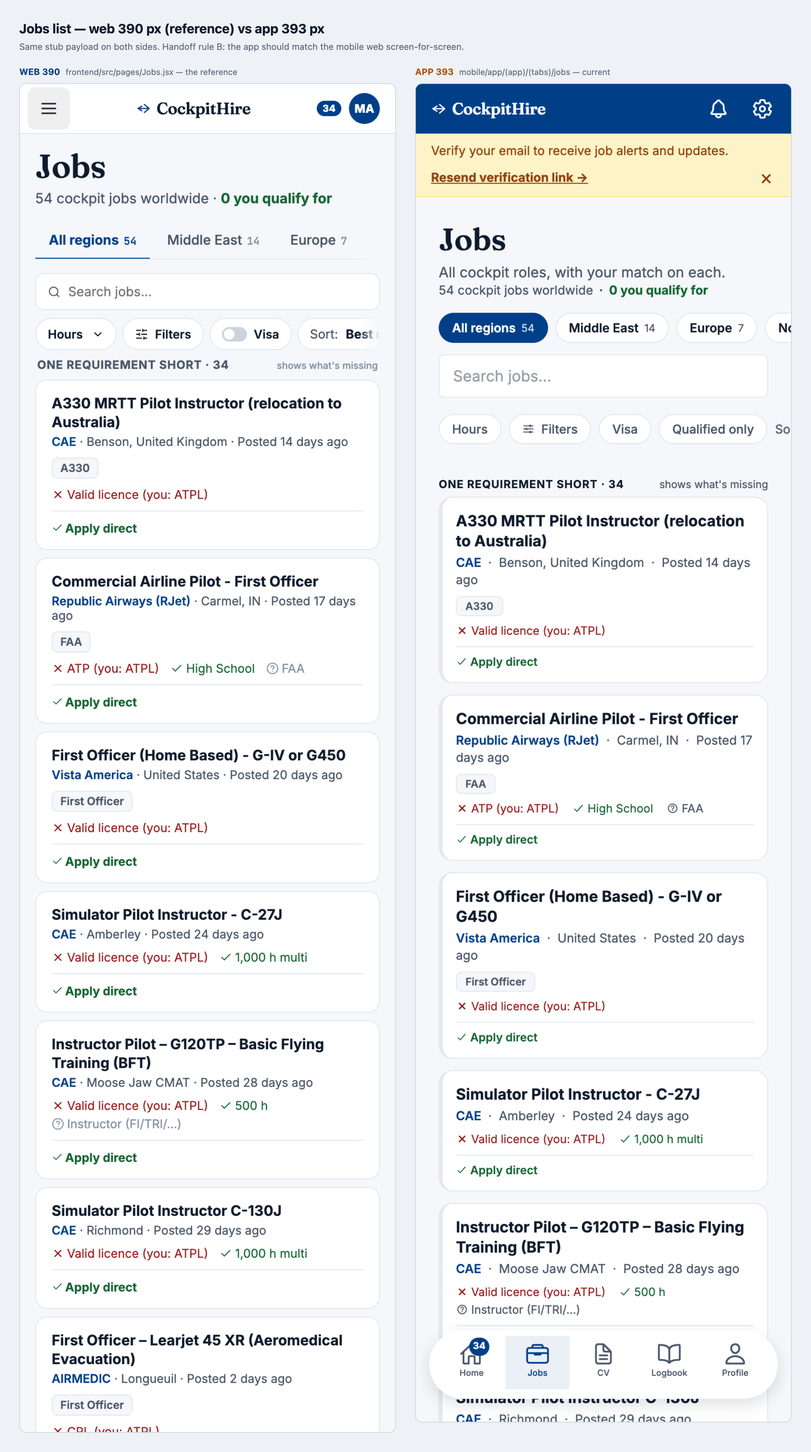
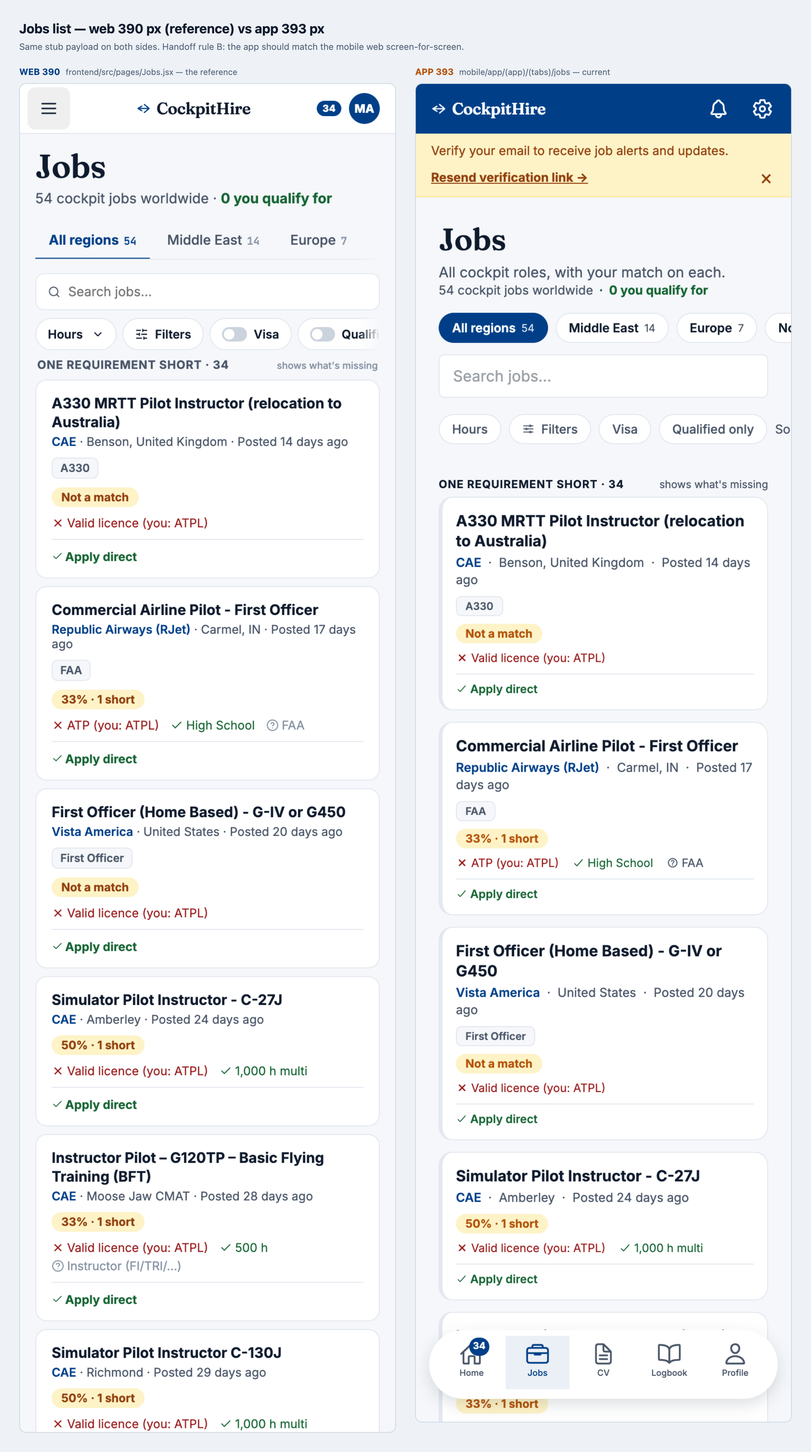
feat(jobs): match % on cards (both platforms) + web gains the app's three wins
**Match pill, one format everywhere.** The original requirement was a
percentage on the Jobs listings AND the Dashboard; the B port had
dropped it from the app card to match web, which showed none at all.
Both now render the same pill from one shared `matchPill()` (twins in
frontend/src/lib/jobMatch.js and mobile/src/lib/jobMatch.ts):
  "75% · 1 short" · "100% · You qualify" · "Not a match" at 0% (a bare
  "0%" reads as broken, not as an answer) · "Event" for a recruitment
  event · nothing for NO_REQUIREMENTS / WRONG_CATEGORY.
Tone drives colour — green qualify, amber short/check, grey otherwise —
and the pill sits between the chips and the checklist on both. The
Dashboard already showed percentages on both platforms; its richer
"75% match / 3 of 4 met" block is left alone.

**Ported to web from the app:**
- the "Never share bank or credit card details when applying" note, on
  both apply surfaces (the sticky phone bar now wraps so the button
  keeps its full label instead of collapsing to an icon);
- the Qualified-only chip, on the phone rail, the desktop rail and the
  applied-filter row — it was buried in the Filters sheet;
- the detail header's logo tile now falls back to initials instead of
  `hideIfMissing`, which left an empty slot for every unresolved
  airline. (Correction to the inventory: web always had the tile; the
  difference was the fallback.)

**CTA is brand navy on both**, labelled "Apply on the source ↗". Green
[…]

diff --git a/frontend/src/components/jobs/jobsRedesign.css b/frontend/src/components/jobs/jobsRedesign.css
@@ -74,6 +74,15 @@
 .jobs-rd .chips { display: flex; flex-wrap: wrap; gap: 5px; }
 .jobs-rd .chip { display: inline-flex; align-items: center; gap: 4px; font-size: 11.5px; font-weight: 600; color: var(--text-secondary); background: var(--bg); border: 1px solid var(--border); border-radius: 6px; padding: 3px 8px; white-space: nowrap; }
 .jobs-rd .chip.visa { color: var(--green); background: var(--green-bg); border-color: var(--green-bd); }
+/* match pill on a card — same format and tones as the app (owner spec):
+   "75% · 1 short" / "100% · You qualify" / "Not a match" at 0% / "Event" */
+.jobs-rd .mpill { align-self: flex-start; font-size: 12px; font-weight: 700; border-radius: 999px; padding: 3px 10px; }
+.jobs-rd .mpill.green { color: #166534; background: #DCFCE7; }
+.jobs-rd .mpill.amber { color: #92400E; background: #FEF3C7; }
+.jobs-rd .mpill.grey  { color: #4A5668; background: var(--surface-2, #F1F4F8); }
+/* fraud-safety line under the apply CTA — ported from the app */
+.jobs-rd .safety { font-size: 11.5px; font-style: italic; color: var(--text-secondary); margin-top: 8px; text-align: center; }
+.jobs-rd .abar .safety { flex: 1 0 100%; margin-top: 0; order: 2; }
 .jobs-rd .check { display: flex; flex-wrap: wrap; gap: 4px 12px; font-size: 12.5px; }
 .jobs-rd .check .ok { color: var(--green); }
 .jobs-rd .check .no { color: var(--red); }
@@ -149,7 +158,7 @@
 .jobs-rd .apply { position: sticky; top: 12px; border: 1px solid var(--border); border-radius: 12px; padding: 16px; background: var(--surface); box-shadow: 0 4px 14px rgba(15,20,25,.05); }
 .jobs-rd .apply .sal { font-family: var(--font-mono); font-size: 18px; font-weight: 700; }
 .jobs-rd .apply .per { font-size: 12px; color: var(--text-secondary); }
-.jobs-rd .apply .abtn { display: block; width: 100%; text-align: center; background: var(--green); color: #fff; font-weight: 700; font-size: 14.5px; border: 0; border-radius: 9px; padding: 12px; margin: 14px 0 8px; cursor: pointer; }
+.jobs-rd .apply .abtn { display: block; width: 100%; text-align: center; background: var(--accent); color: #fff; font-weight: 700; font-size: 14.5px; border: 0; border-radius: 9px; padding: 12px; margin: 14px 0 8px; cursor: pointer; }
 .jobs-rd .apply .how { font-size: 12px; color: var(--text-secondary); line-height: 1.45; } .jobs-rd .apply .how b { color: var(--green); }
 .jobs-rd .apply .arow { display: flex; gap: 8px; margin-top: 12px; }
 .jobs-rd .apply .arow button { flex: 1; text-align: center; border: 1px solid var(--border); border-radius: 8px; padding: 8px; font-size: 13px; font-weight: 600; background: var(--surface); cursor: pointer; }
@@ -159,10 +168,10 @@
 /* phone fixed bottom apply bar — roomy: 14px all sides + safe-area inset so it
    clears the iPhone home bar / Safari toolbar; salary+source centred against a
    48px-tall Apply button. */
-.jobs-rd .abar { position: fixed; left: 0; right: 0; bottom: 0; background: var(--surface); border-top: 1px solid var(--border); padding: 14px 16px calc(14px + env(safe-area-inset-bottom)); display: flex; align-items: center; gap: 14px; z-index: 60; box-shadow: 0 -2px 12px rgba(15,20,25,.06); }
-.jobs-rd .abar .l { flex: 0 0 auto; min-width: 0; font-size: 12px; color: var(--text-secondary); line-height: 1.4; } .jobs-rd .abar .l b { display: block; font-family: var(--font-body); font-variant-numeric: tabular-nums; font-weight: 700; font-size: 15px; color: var(--text-primary); white-space: nowrap; }
-.jobs-rd .abar .abtn { flex: 1 1 auto; }
-.jobs-rd .abar .abtn { min-height: 48px; display: inline-flex; align-items: center; justify-content: center; gap: 6px; background: var(--green); color: #fff; font-weight: 700; font-size: 15px; border: 0; border-radius: 10px; padding: 0 20px; cursor: pointer; min-width: 0; flex-shrink: 1; }
+.jobs-rd .abar { position: fixed; left: 0; right: 0; bottom: 0; background: var(--surface); border-top: 1px solid var(--border); padding: 14px 16px calc(14px + env(safe-area-inset-bottom)); display: flex; flex-wrap: wrap; align-items: center; row-gap: 6px; column-gap: 14px; z-index: 60; box-shadow: 0 -2px 12px rgba(15,20,25,.06); }
+.jobs-rd .abar .l { flex: 0 0 auto; min-width: 0; order: 0; font-size: 12px; color: var(--text-secondary); line-height: 1.4; } .jobs-rd .abar .l b { display: block; font-family: var(--font-body); font-variant-numeric: tabular-nums; font-weight: 700; font-size: 15px; color: var(--text-primary); white-space: nowrap; }
+.jobs-rd .abar .abtn { flex: 1 1 auto; min-width: 180px; order: 1; }
+.jobs-rd .abar .abtn { min-height: 48px; display: inline-flex; align-items: center; justify-content: center; gap: 6px; background: var(--accent); color: #fff; font-weight: 700; font-size: 15px; border: 0; border-radius: 10px; padding: 0 20px; cursor: pointer; min-width: 0; flex-shrink: 1; }
 .jobs-rd .abar .abtn .lbl { overflow: hidden; text-overflow: ellipsis; white-space: nowrap; }
 /* No salary → the button fills the bar and centres its label. */
 .jobs-rd .abar.nosal .abtn { width: 100%; flex: 1; }

diff --git a/frontend/src/pages/Jobs.jsx b/frontend/src/pages/Jobs.jsx
@@ -703,6 +703,7 @@ export default function Jobs() {
               <button type="button" className={`fbtn${maxReqHours ? ' act' : ''}`} onClick={() => setHoursOpen(true)}>{hoursLabel} <ChevronDown size={13} style={{ marginLeft: 2 }} /></button>
               <button type="button" className={`fbtn${(aircraftType || role || authority || contractType || postedWithin || minSalary || ntrOnly) ? ' act' : ''}`} onClick={() => setFiltersSheetOpen(true)}><SlidersHorizontal size={14} /> Filters</button>
               <button type="button" className={`fbtn tog${visaOnly ? ' on act' : ''}`} onClick={() => setVisaOnly((v) => !v)} aria-pressed={visaOnly}><span className="sw" />Visa</button>
+              <button type="button" className={`fbtn tog${qualifiedOnly ? ' on act' : ''}`} onClick={() => setQualifiedOnly((v) => !v)} aria-pressed={qualifiedOnly}><span className="sw" />Qualified only</button>
               <div className="fsort" style={{ marginLeft: 'auto' }}>Sort:
                 <select value={sort} onChange={(e) => setSort(e.target.value)} aria-label="Sort">{SORT_OPTIONS.map((s) => <option key={s.value} value={s.value}>{s.label}</option>)}</select>
               </div>
@@ -734,6 +735,9 @@ export default function Jobs() {
             <button type="button" className={`fbtn tog${visaOnly ? ' on act' : ''}`} onClick={() => setVisaOnly((v) => !v)} aria-pressed={visaOnly}>
               <span className="sw" />Visa sponsored
             </button>
+            <button type="button" className={`fbtn tog${qualifiedOnly ? ' on act' : ''}`} onClick={() => setQualifiedOnly((v) => !v)} aria-pressed={qualifiedOnly}>
+              <span className="sw" />Qualified only
+            </button>
             <div className="fsort">Sort:
               <select value={sort} onChange={(e) => setSort(e.target.value)} aria-label="Sort">
                 {SORT_OPTIONS.map((s) => <option key={s.value} value={s.value}>{s.label}</option>)}
@@ -742,7 +746,7 @@ export default function Jobs() {
           </div>
         )}
 
-        {(region || aircraftType || role || authority || visaOnly || search || maxReqHours) && (
+        {(region || aircraftType || role || authority || visaOnly || qualifiedOnly || search || maxReqHours) && (
           <div className="applied">
             {region && <button className="ach" onClick={() => setRegion('')}>{region} <X size={12} style={{ marginLeft: 2 }} /></button>}
             {maxReqHours && <button className="ach" onClick={() => setMaxReqHours('')}>Up to {Number(maxReqHours).toLocaleString()} h <X size={12} style={{ marginLeft: 2 }} /></button>}
@@ -750,6 +754,7 @@ export default function Jobs() {
             {role && <button className="ach" onClick={() => setRole('')}>{roleLabel(role)} <X size={12} style={{ marginLeft: 2 }} /></button>}
             {authority && <button className="ach" onClick={() => setAuthority('')}>{authority} <X size={12} style={{ marginLeft: 2 }} /></button>}
             {visaOnly && <button className="ach" onClick={() => setVisaOnly(false)}>Visa sponsored <X size={12} style={{ marginLeft: 2 }} /></button>}
+            {qualifiedOnly && <button className="ach" onClick={() => setQualifiedOnly(false)}>Qualified only <X size={12} style={{ marginLeft: 2 }} /></button>}
             {/* Right group: Clear all + alert, same height/size, pinned right so the
                 chips flow on the left. On phone the alert shrinks to a bell + "Alert". */}
             <div className="rgroup">

diff --git a/mobile/src/components/JobCardShared.tsx b/mobile/src/components/JobCardShared.tsx
@@ -10,7 +10,7 @@ import { Ionicons } from '@expo/vector-icons';
 import AirlineLogo from './AirlineLogo';
 import { displayTitle, locationName } from '../lib/displayNames';
 import { num } from '../lib/format';
-import { checklist, jobChips, sourceInfo } from '../lib/jobMatch';
+import { checklist, jobChips, matchPill, sourceInfo } from '../lib/jobMatch';
 import { fontFamilies, fontSizes } from '../theme/tokens';
 import { ThemePalette, useThemeColors, useThemedStyles } from '../theme/ThemeContext';
 
@@ -44,6 +44,7 @@ export default function JobCardContent({ job, air, ago, right, footer, ongoing }
     : (ongoing || ago || '');
   const metaLine = [locText, timeLine].filter(Boolean).join('  ·  ');
   const sal = salaryText(job);
+  const pill = matchPill(job?.match);
 
   return (
     <>
@@ -63,6 +64,12 @@ export default function JobCardContent({ job, air, ago, right, footer, ongoing }
             {chips.map((c, i) => (
               <Text key={`${c.text}-${i}`} style={[styles.jcChip, c.visa && styles.jcChipVisa]}>{c.text}</Text>
             ))}
+          </View>
+        ) : null}
+
+        {pill ? (
+          <View style={[styles.mpill, pill.tone === 'green' ? styles.mpillGreen : pill.tone === 'amber' ? styles.mpillAmber : styles.mpillGrey]}>
+            <Text style={[styles.mpillText, { color: pill.color }]}>{pill.text}</Text>
           </View>
         ) : null}
 
@@ -118,6 +125,11 @@ const createStyles = (pilot: ThemePalette) => StyleSheet.create({
   jcTitle: { fontFamily: fontFamilies.bodyBold, fontSize: fontSizes.md, color: pilot.ink, lineHeight: 21 },
   jcMeta: { fontSize: fontSizes.sm, color: pilot.muted, fontFamily: fontFamilies.body, marginTop: 3, lineHeight: 18 },
   jcCompany: { color: pilot.navy, fontFamily: fontFamilies.bodySemiBold },
+  mpill: { alignSelf: 'flex-start', borderRadius: 999, paddingHorizontal: 10, paddingVertical: 3, marginTop: 8 },
+  mpillGreen: { backgroundColor: '#DCFCE7' },
+  mpillAmber: { backgroundColor: '#FEF3C7' },
+  mpillGrey: { backgroundColor: pilot.cream },
+  mpillText: { fontSize: 12, fontFamily: fontFamilies.bodyBold },
   jcChipRow: { flexDirection: 'row', flexWrap: 'wrap', gap: 6, marginTop: 8 },
   jcChip: {
     fontSize: 11, color: pilot.muted, fontFamily: fontFamilies.bodySemiBold,

diff --git a/frontend/src/components/jobs/JobDetailPanel.jsx b/frontend/src/components/jobs/JobDetailPanel.jsx
@@ -130,6 +130,7 @@ export default function JobDetailPanel({ jobId, mobile = false, onBack, seo = fa
         {job.lastSeenAt && <span>Link checked <b>{ago(job.lastSeenAt)}</b></span>}
         {job.expiresAt && <span>Closes <b>{dateStr(job.expiresAt)}</b></span>}
       </div>
+      <div className="safety">Never share bank or credit card details when applying.</div>
       <button className="report" onClick={() => setReporting(true)}><Flag size={12} style={{ verticalAlign: -1 }} /> Report incorrect info</button>
     </div>
   );
@@ -138,7 +139,9 @@ export default function JobDetailPanel({ jobId, mobile = false, onBack, seo = fa
     <div className={`detail${mobile ? ' m' : ''}`}>
       {mobile && <button className="rd-back" onClick={onBack}><ArrowLeft size={15} style={{ verticalAlign: -2 }} /> Back to jobs</button>}
       <div className="dtop">
-        <div className="jc-logo" style={{ flexShrink: 0 }}><AirlineLogo logoUrl={logoUrl} name={job.company} box={48} maxW={72} hideIfMissing /></div>
+        {/* Initials fallback (no hideIfMissing) so the header always has a tile —
+            the app has always shown one, and an empty slot read as broken. */}
+        <div className="jc-logo" style={{ flexShrink: 0 }}><AirlineLogo logoUrl={logoUrl} name={job.company} box={48} maxW={72} /></div>
         <div style={{ flex: 1, minWidth: 0 }}>
           <h2>{displayTitle(job.title)}</h2>
           <div className="dmeta"><b>{companyName(job.company)}</b>{locationName(job.location || job.country) ? ` · ${locationName(job.location || job.country)}` : ''}{job.postedAt ? ` · ${postedAgo(job.postedAt)}` : ''}</div>
@@ -252,6 +255,7 @@ export default function JobDetailPanel({ jobId, mobile = false, onBack, seo = fa
             <span className="lbl">{src.direct ? `Apply on ${job.company} careers` : `Apply on ${src.name}`}</span>
             <ExternalLink size={14} style={{ flexShrink: 0 }} />
           </button>
+          <div className="safety">Never share bank or credit card details when applying.</div>
         </div>
       )}
 

diff --git a/mobile/src/lib/jobMatch.ts b/mobile/src/lib/jobMatch.ts
@@ -167,6 +167,29 @@ export function statusMeta(match: ServerMatch | null | undefined):
   return { ...base, color: TONE_COLOR[base.tone], pct: match.pct ?? null, shortfall: match.shortfall || null };
 }
 
+
+// ── The match pill shown on a job CARD (Jobs list + Dashboard, web + app) ────
+// One format everywhere, by owner spec:
+//   "75% · 1 short"          normal case: number, then the status label
+//   "100% · You qualify"     a full match still shows its number
+//   "Not a match"            0% drops the number — "0%" reads as broken, not as
+//                            an answer
+//   "Event"                  a recruitment event is not a vacancy to score
+//   (nothing)                NO_REQUIREMENTS / WRONG_CATEGORY — no % to show
+// Tone drives the colour: green = qualify, amber = short/check, grey = neither.
+export function matchPill(match: ServerMatch | null | undefined):
+  { text: string; tone: 'green' | 'amber' | 'grey'; color: string } | null {
+  if (!match) return null;
+  const status = match.status;
+  if (status === 'EVENT') return { text: 'Event', tone: 'grey', color: TONE_COLOR.grey };
+  if (status === 'NO_REQUIREMENTS' || status === 'WRONG_CATEGORY') return null;
+  const base = MATCH_STATUS_META[status ?? ''] || { label: '', tone: 'grey' as const };
+  const pct = typeof match.pct === 'number' ? match.pct : null;
+  if (pct == null) return null;
+  const text = pct === 0 ? 'Not a match' : `${pct}%${base.label ? ` · ${base.label}` : ''}`;
+  return { text, tone: base.tone, color: TONE_COLOR[base.tone] };
+}
+
 export const MATCH_TIERS = { excellent: 90, great: 75, good: 60 };
 
 export function matchLabel(score: number | null | undefined): { text: string; variant: 'success' | 'info' | 'warning' } | null {

diff --git a/frontend/src/lib/jobMatch.js b/frontend/src/lib/jobMatch.js
@@ -163,6 +163,28 @@ export function statusMeta(match) {
   return { ...base, color: TONE_COLOR[base.tone], pct: match.pct, shortfall: match.shortfall || null };
 }
 
+
+// ── The match pill shown on a job CARD (Jobs list + Dashboard, web + app) ────
+// One format everywhere, by owner spec:
+//   "75% · 1 short"          normal case: number, then the status label
+//   "100% · You qualify"     a full match still shows its number
+//   "Not a match"            0% drops the number — "0%" reads as broken, not as
+//                            an answer
+//   "Event"                  a recruitment event is not a vacancy to score
+//   (nothing)                NO_REQUIREMENTS / WRONG_CATEGORY — no % to show
+// Tone drives the colour: green = qualify, amber = short/check, grey = neither.
+export function matchPill(match) {
+  if (!match) return null;
+  const status = match.status;
+  if (status === 'EVENT') return { text: 'Event', tone: 'grey', color: TONE_COLOR.grey };
+  if (status === 'NO_REQUIREMENTS' || status === 'WRONG_CATEGORY') return null;
+  const base = MATCH_STATUS_META[status] || { label: '', tone: 'grey' };
+  const pct = typeof match.pct === 'number' ? match.pct : null;
+  if (pct == null) return null;
+  const text = pct === 0 ? 'Not a match' : `${pct}%${base.label ? ` · ${base.label}` : ''}`;
+  return { text, tone: base.tone, color: TONE_COLOR[base.tone] };
+}
+
 // ─── Match-score tiers ─────────────────────────────────────────────────────────
 
 // Tier thresholds (shared so consumers can derive labels/colors consistently).

diff --git a/frontend/src/components/jobs/JobCard.jsx b/frontend/src/components/jobs/JobCard.jsx
@@ -2,7 +2,7 @@ import React from 'react';
 import { Check, X, HelpCircle } from 'lucide-react';
 import AirlineLogo from '../AirlineLogo';
 import AdzunaAttribution from './AdzunaAttribution';
-import { postedAgo, formatSalary } from '../../lib/jobMatch';
+import { postedAgo, formatSalary, matchPill } from '../../lib/jobMatch';
 import { displayTitle, jobChips, checklist, sourceInfo } from '../../lib/jobDisplay';
 import { locationName } from '../../lib/displayNames';
 
@@ -13,6 +13,7 @@ export default function JobCard({ job, selected, onClick, compact = false, logoU
   const checks = checklist(job.match, 4);
   const src = sourceInfo(job);
   const sal = formatSalary(job, true);
+  const pill = matchPill(job.match);
   const loc = locationName(job.location || job.country); // deduped; no HQ flag (C#1)
   // Evergreen/ongoing rows keep an honest "Ongoing · link checked {date}" label
   // (their posted date is stale but the vacancy is live — the liveness checker
@@ -49,6 +50,10 @@ export default function JobCard({ job, selected, onClick, compact = false, logoU
         <div className="chips">
           {chips.map((c, i) => <span key={i} className={`chip${c.visa ? ' visa' : ''}`}>{c.text}</span>)}
         </div>
+      )}
+
+      {pill && (
+        <div className={`mpill ${pill.tone}`}>{pill.text}</div>
       )}
 
       {checks.length > 0 && (

diff --git a/mobile/app/(app)/(tabs)/jobs/[id].tsx b/mobile/app/(app)/(tabs)/jobs/[id].tsx
@@ -456,9 +456,9 @@ const createStyles = (pilot: ThemePalette) => StyleSheet.create({
 
   bottomBar: { borderTopWidth: 1, borderTopColor: pilot.line, backgroundColor: pilot.cream, paddingHorizontal: spacing.xl, paddingTop: 12, paddingBottom: 8, gap: 6 },
   ctaRow: { flexDirection: 'row', gap: 12 },
-  // Inventory 5.5 — web's apply CTA is green and says "Apply on the source";
-  // the app keeps its Save button and the fraud-safety note (ported to web).
-  applyBtn: { flex: 1, backgroundColor: '#14301C', borderRadius: 4, paddingVertical: 13, alignItems: 'center' },
+  // Inventory 5.5 — one CTA on both platforms: brand navy, "Apply on the
+  // source ↗". Green stays a STATUS colour (met / qualify), never a button.
+  applyBtn: { flex: 1, backgroundColor: pilot.navy, borderRadius: 4, paddingVertical: 13, alignItems: 'center' },
   applyBtnDisabled: { opacity: 0.5 },
   applyBtnText: { color: '#fff', fontFamily: fontFamilies.bodyMedium, fontSize: fontSizes.base },
   saveBtn: { borderWidth: 1, borderColor: pilot.navy, borderRadius: 4, paddingVertical: 13, paddingHorizontal: 18, alignItems: 'center' },

diff --git a/docs/design/jobs-web-vs-app-inventory.md b/docs/design/jobs-web-vs-app-inventory.md
@@ -35,7 +35,7 @@ Sources: web `frontend/src/pages/Jobs.jsx` + `components/jobs/JobCard.jsx` +
 | 2.2 | **Filters** sheet: aircraft, role, licence authority, contract type, posted-within, min salary, NTR-only | absent | **Port.** All server-supported params. |
 | 2.3 | **Visa** toggle | absent | **Port.** |
 | 2.4 | Sort: Best match / Newest / **Salary** / Deadline | Best match / Newest / Deadline | **Port** the Salary option. |
-| 2.5 | Qualified-only lives inside the Filters sheet | standalone **Qualified only** chip (A#8) | **?** The app's chip is more discoverable. Proposal: keep the chip on both and remove it from the sheet. | **[kept — handoff conflict]** A#8 asked for a Qualified-only **chip**; web buries it in the Filters sheet. Chip stays on the app and gets ported to web.
+| 2.5 | Qualified-only lives inside the Filters sheet | standalone **Qualified only** chip (A#8) | **?** The app's chip is more discoverable. Proposal: keep the chip on both and remove it from the sheet. | **[kept — handoff conflict]** A#8 asked for a Qualified-only **chip**; web buried it in the Filters sheet. The chip is now on BOTH rails (phone + desktop) and in web's applied-filter row. **DONE.**
 | 2.6 | Search + salary debounced 400 ms, sent to the **server** | search filtered **client-side** over the 1000 rows already fetched | Keep the app's for now (whole feed is loaded), but it diverges once paging lands. |
 | 2.7 | Applied-filter chip row with per-chip ✕, **Clear all**, and **Create alert** | absent | **Port** with 2.1–2.3 (Create alert when that ships on web). |
 
@@ -52,7 +52,7 @@ Sources: web `frontend/src/pages/Jobs.jsx` + `components/jobs/JobCard.jsx` +
 
 | # | Web | App | Verdict |
 |---|---|---|---|
-| 4.1 | Per-requirement **verdict chips**: `× Valid licence (you: ATPL)`, `✓ 1,000 h multi`, `? FAA` — the "what's missing" line | spec strip (`Total time 1,500 h · Licence ATPL`) + `75% match · 1 short` pill | **?** Genuinely different models. Proposal: adopt web's verdict chips (they answer "can I apply?"), and **keep** the app's % pill as a second line — then port the pill to web too. | **[default-to-web] [unsure]** Adopt web's per-requirement verdict chips. Strictly, web shows no % on a card, so the app's `75% match` pill goes. **Unsure:** that removes a number the app shows today and the Dashboard still shows. Say the word and I'll keep the pill as a second line on both.
+| 4.1 | Per-requirement **verdict chips**: `× Valid licence (you: ATPL)`, `✓ 1,000 h multi`, `? FAA` — the "what's missing" line | spec strip (`Total time 1,500 h · Licence ATPL`) + `75% match · 1 short` pill | **?** Genuinely different models. Proposal: adopt web's verdict chips (they answer "can I apply?"), and **keep** the app's % pill as a second line — then port the pill to web too. | **[user, 2026-10-08 — OVERRIDES the default]** Both: web's verdict chips **and** the % pill. The original product requirement was percentages on the Jobs listings AND the Dashboard. One shared `matchPill()` formatter (twins in `frontend/src/lib/jobMatch.js` and `mobile/src/lib/jobMatch.ts`): `75% · 1 short`, `100% · You qualify`, `Not a match` at 0% (the number reads as broken), `Event` for a recruitment event, nothing for NO_REQUIREMENTS / WRONG_CATEGORY. Tone: green qualify, amber short/check, grey otherwise. Pill sits between the chips and the checklist on both. **DONE.**
 | 4.2 | `✓ Apply direct` footer line on every direct card | badge row, but only when `applyIsDirect` **and** `sourcePlatform !== 'EMPLOYER_DIRECT'` | Reconcile — the app under-shows it. |
 | 4.3 | One tag chip under the company line (`A330`, `FAA`, `First Officer`) | aircraft chips at the **bottom** of the card | Align to web's position. |
 | 4.4 | Location inline in the meta line (`CAE · Benson, United Kingdom · Posted 14 days ago`) | own row with a pin icon | Align to web. |
@@ -64,9 +64,9 @@ Sources: web `frontend/src/pages/Jobs.jsx` + `components/jobs/JobCard.jsx` +
 |---|---|---|---|
 | 5.1 | Banner: `3 of 4 known requirements met. 1 still short.` | `YOUR MATCH / 75% / 1 short` + blocker pill | **?** Same facts, different framing. Proposal: show both — web's sentence under the app's %. | **[default-to-web]** Use web's sentence (*3 of 4 known requirements met. 1 still short.*) as the banner, keeping the app's large % above it — same component, no information lost.
 | 5.2 | Requirement rows **grouped**: `MUST-HAVES`, `HOURS`, `RATINGS & MEDICAL`, with a `REQUIREMENT / NEEDED / YOU` header | flat table, `Required / You` only | **Port** the grouping. |
-| 5.3 | Title alone | airline logo tile beside the title | Keep the app's (better), port to web. |
+| 5.3 | Logo tile present but `hideIfMissing` → an empty slot whenever the airline can't be resolved | tile with an initials fallback | **CORRECTED:** web always had the tile; the difference was the fallback. Web now renders initials too. **DONE.** |
 | 5.4 | Role chip (`First Officer`) | absent | **Port.** |
-| 5.5 | CTA `Apply on the source ↗`, **green**, full-width sticky | `View Full Posting & Apply →`, **navy**, + `Save` + "Never share bank or credit card details" note | **?** Pick one label and colour. The app's Save and safety note are better — port them to web. | **[default-to-web] [unsure]** Web's label and colour win: *Apply on the source ↗*, green, full-width sticky. Keeping the app's **Save** (web has it too) and the *never share bank details* note. **Unsure:** the note has no web equivalent — porting it to web instead of dropping it.
+| 5.5 | CTA `Apply on the source ↗`, **green**, full-width sticky | `View Full Posting & Apply →`, **navy**, + `Save` + "Never share bank or credit card details" note | **?** Pick one label and colour. The app's Save and safety note are better — port them to web. | **[user, 2026-10-08]** Label from web (*Apply on the source ↗*) but **brand navy on both** — green stays a status colour (met / qualify), never a button. The safety note is now on web too, on both apply surfaces. **DONE.**
 
 ---
 
